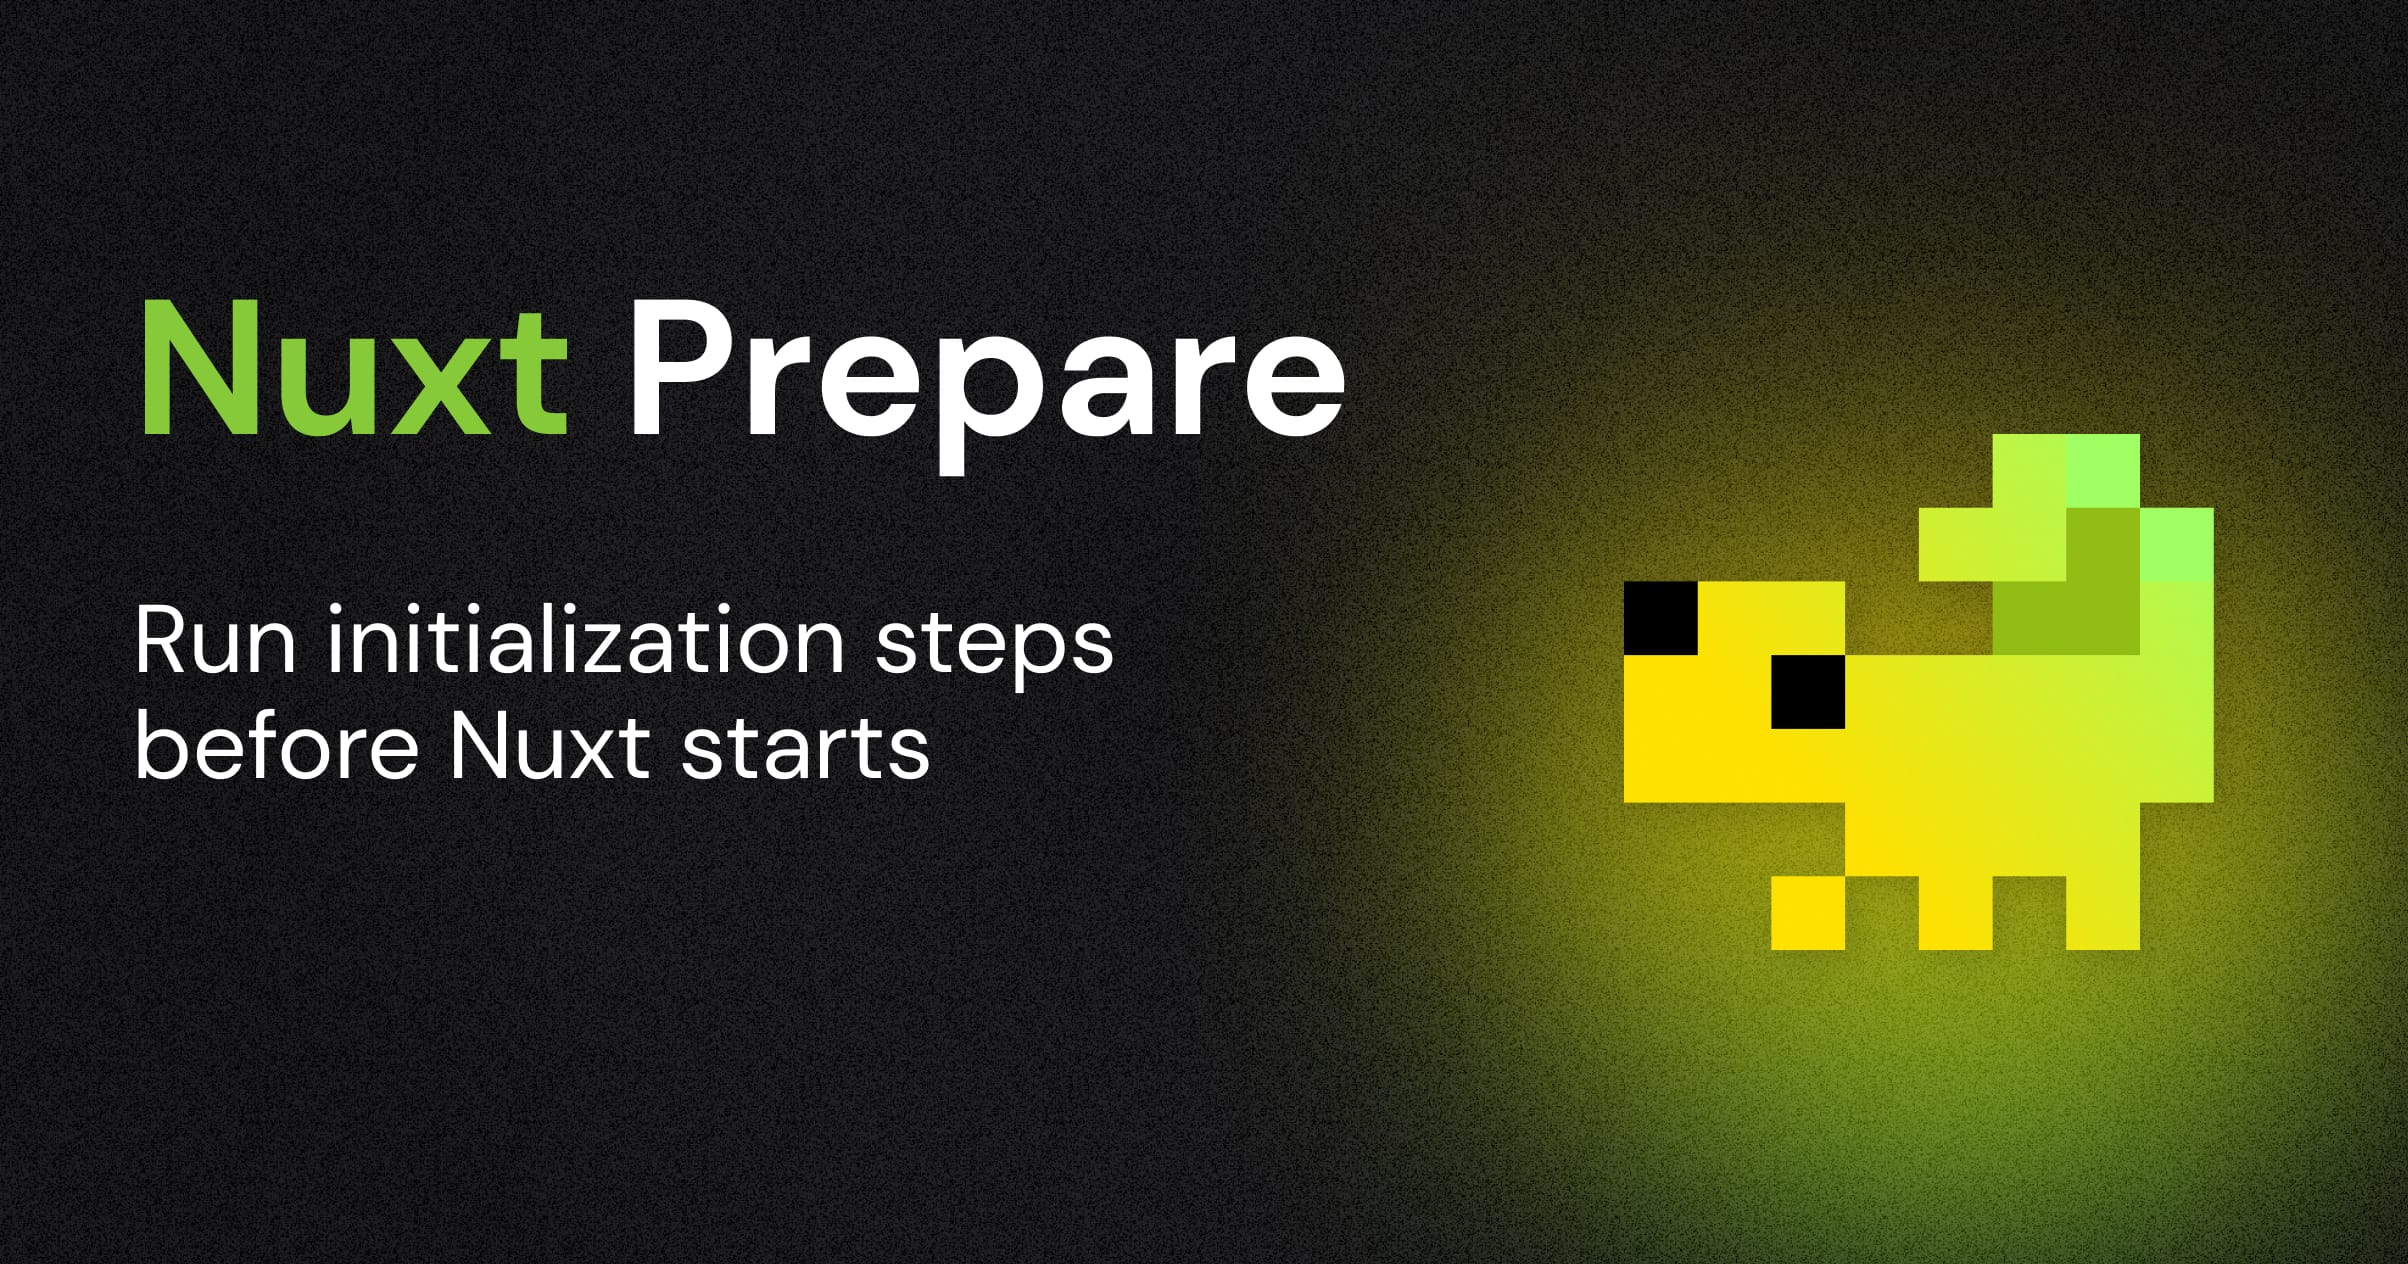
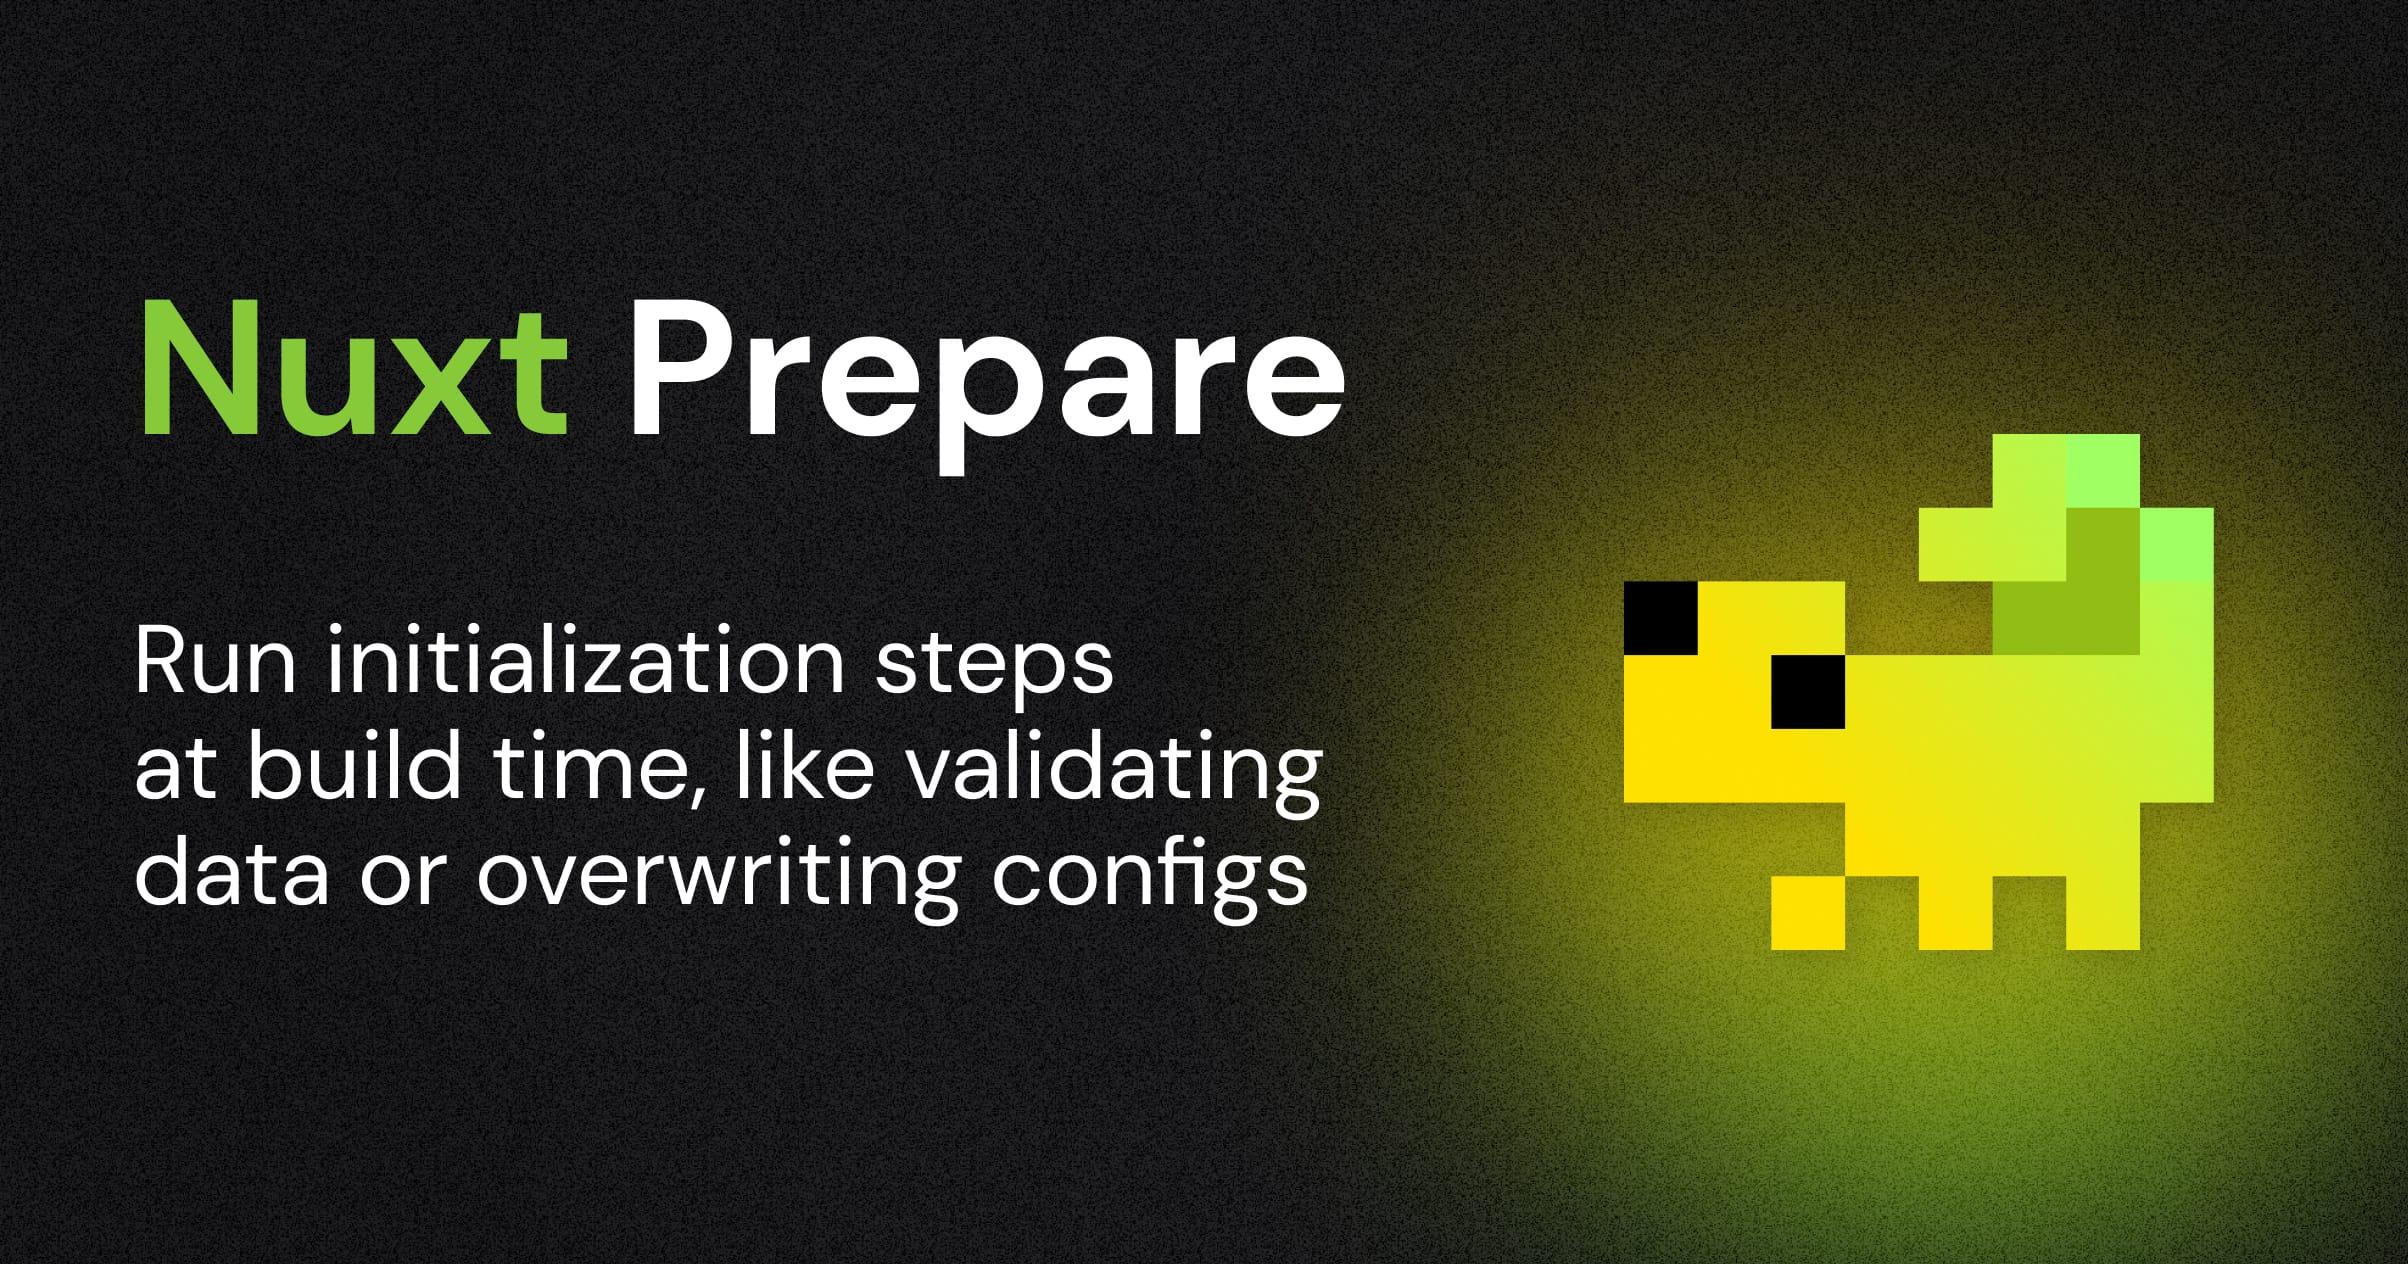
chore: update tag line

Changed region(s): [[0.0311, 0.4628, 0.5606, 0.7405]]

diff --git a/docs/.vitepress/config.ts b/docs/.vitepress/config.ts
@@ -8,7 +8,7 @@ const url = new URL(ogUrl)
 export default defineConfig({
   lang: 'en-US',
   title: name,
-  description: 'Run initialization steps before Nuxt starts',
+  description: 'Run initialization steps at build time',
   head: [
     ['link', { rel: 'icon', href: '/logo.svg', type: 'image/svg+xml' }],
     ['meta', { name: 'author', content: 'Johann Schopplich' }],

diff --git a/README.md b/README.md
@@ -4,7 +4,7 @@
 
 [![npm version](https://img.shields.io/npm/v/nuxt-prepare?color=a1b858&label=)](https://www.npmjs.com/package/nuxt-prepare)
 
-> [Nuxt 3](https://nuxt.com) module to run initialization steps before Nuxt starts.
+> [Nuxt 3](https://nuxt.com) module to run initialization steps at build time.
 
 - [✨ &nbsp;Release Notes](https://github.com/johannschopplich/nuxt-prepare/releases)
 - [📖 &nbsp;Read the documentation](https://nuxt-prepare.byjohann.dev)
@@ -12,7 +12,7 @@
 ## Features
 
 - 🦦 Zero-Config
-- 🦎 Run sync or async operations at build-time and pass state to Nuxt
+- 🦎 Run sync or async operations when Nuxt builds your app
 - ✂ Conditionally overwrite runtime config or app config variables
 - 🦾 Better DX with [`defineNuxtPrepareHandler`](https://nuxt-prepare.byjohann.dev/api/define-nuxt-prepare-handler)
 
@@ -41,7 +41,7 @@ export default defineNuxtConfig({
 })
 ```
 
-By default, `nuxt-prepare` will look for a `server.prepare.ts` file in your project root. To run synchronous or asynchronous code before Nuxt starts, define a handler in your project root and export a default function:
+By default, `nuxt-prepare` will look for a `server.prepare.ts` file in your project root. To run synchronous or asynchronous code when Nuxt builds your app, define a handler in your project root and export a default function:
 
 ```ts
 // `server.prepare.ts`

diff --git a/docs/guide/getting-started.md b/docs/guide/getting-started.md
@@ -29,7 +29,7 @@ export default defineNuxtConfig({
 
 ## Step 3: Set Up Prepare Scripts
 
-By default, `nuxt-prepare` will look for a `server.prepare.ts` file in your project root. To run synchronous or asynchronous code before Nuxt starts, create a file handler and export a default function:
+By default, `nuxt-prepare` will look for a `server.prepare.ts` file in your project root. To run synchronous or asynchronous code when Nuxt builds your app, create a file handler and export a default function:
 
 ```ts
 // `server.prepare.ts`
@@ -71,4 +71,4 @@ export default defineNuxtConfig({
 })
 ```
 
-Now, both `server.prepare.ts` and `process.prepare.ts` will be executed before Nuxt starts.
+Now, both `server.prepare.ts` and `process.prepare.ts` will be executed at build time.

diff --git a/docs/index.md b/docs/index.md
@@ -3,11 +3,11 @@ layout: home
 sidebar: false
 
 title: nuxt-prepare
-titleTemplate: Run initialization steps before Nuxt starts
+titleTemplate: Run initialization steps at build time
 
 hero:
   name: nuxt-prepare
-  text: Run initialization steps before Nuxt starts
+  text: Run initialization steps at build time
   tagline: Like server init in Nuxt 2, but better
   image:
     src: /logo-shadow.svg
@@ -41,7 +41,7 @@ features:
     linkText: Methods
   - title: Validate Your `.env`
     icon: 🦜
-    details: Ensure your `.env` is valid before Nuxt starts.
+    details: Ensure your `.env` is valid before Nuxt builds your app.
     link: /guide/example-env-validation
     linkText: Examples
 ---
